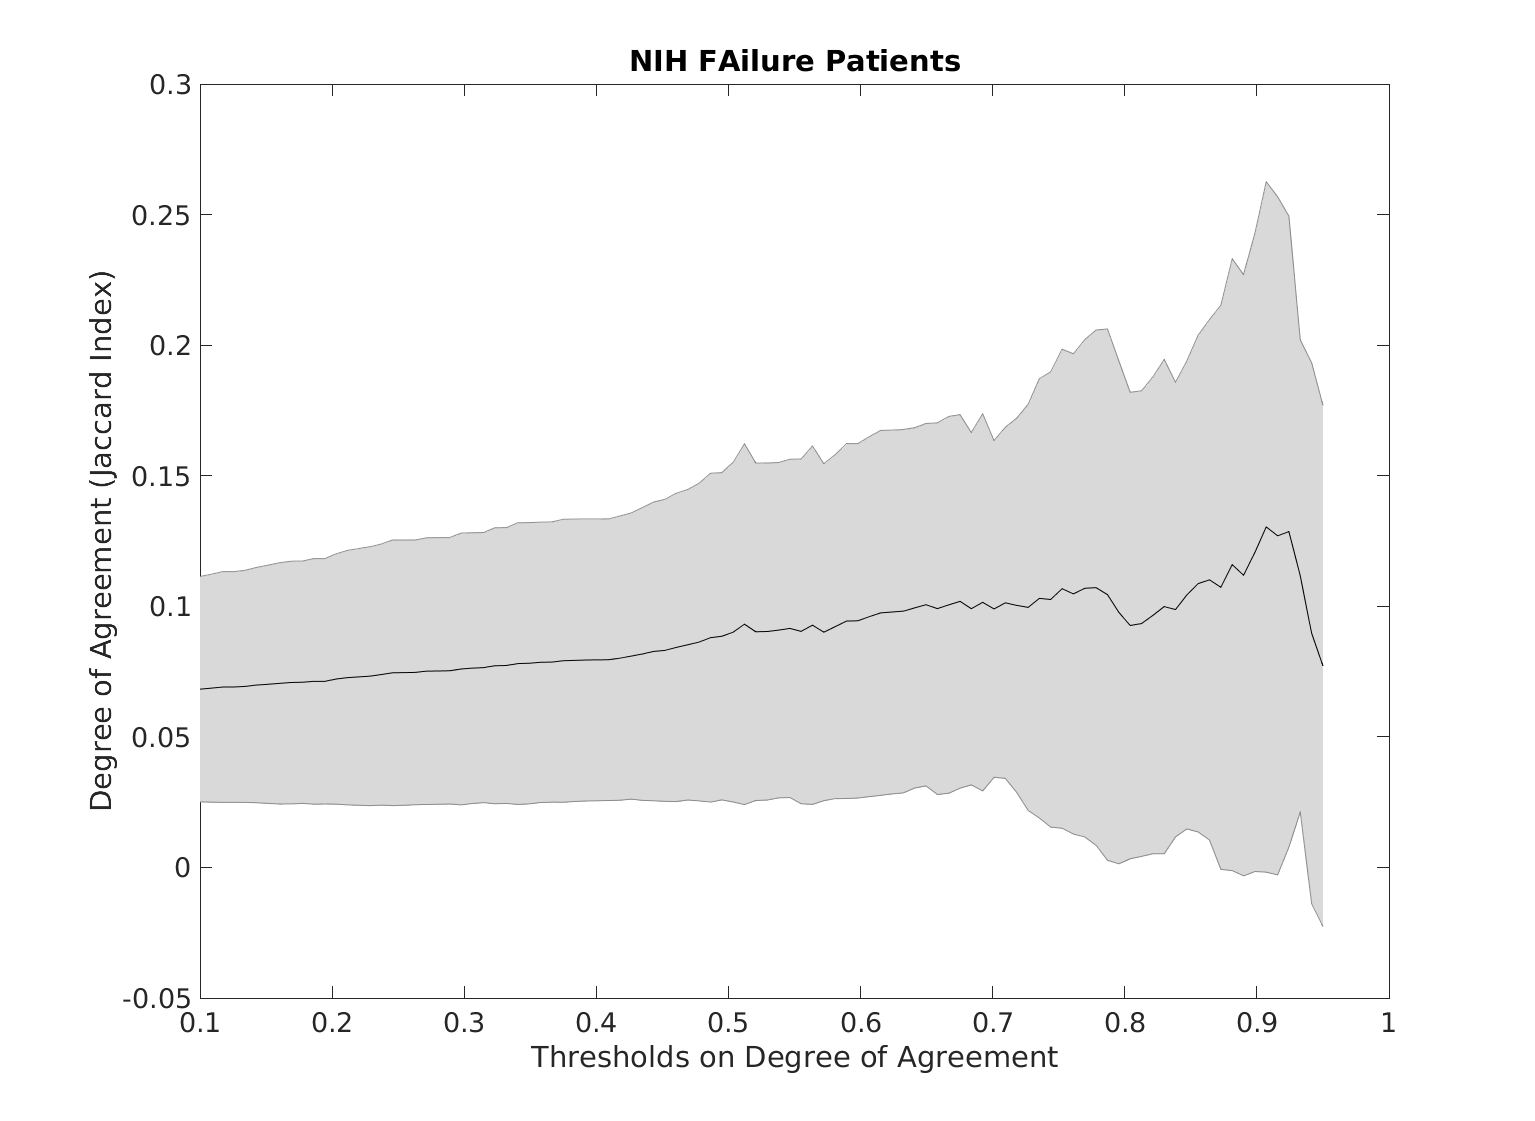
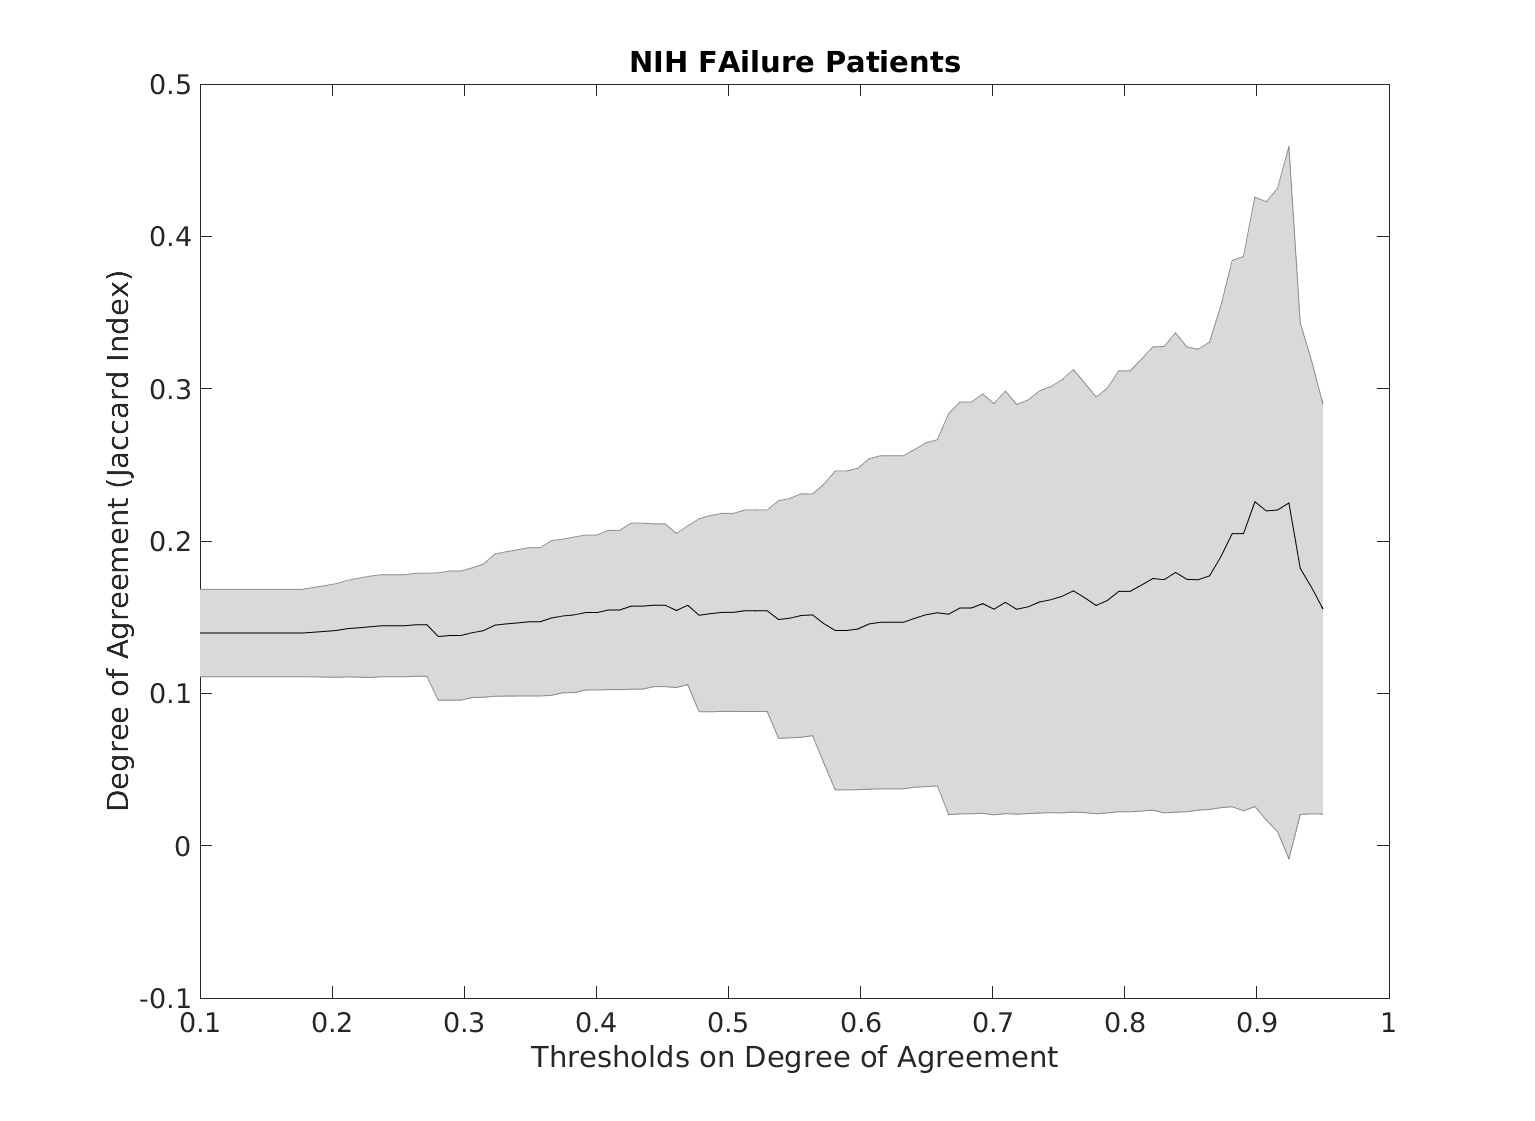
Fixing the doa vs threshold for each center figs.

diff --git a/paper/computeOptimalThreshold.m b/paper/computeOptimalThreshold.m
@@ -184,7 +184,7 @@ patThresholds = zeros(length([SUCCESS{:}]), length(thresholds));
 patients_key = {};
 
 for iCenter=1:length(CENTERS)
-    patients = SUCCESS{iCenter};
+    patients = FAILURE{iCenter};
     file = FILES{iCenter};
     data = load(file);
     
